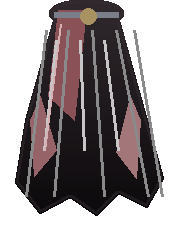
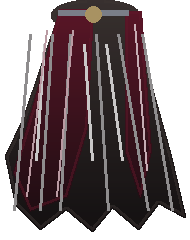
Repaint Lightning to the palette of the painted concept
The concept (juan-ruiz-03.jpg) says a charcoal robe, a steel-blue plate and an
oxblood cape lining, and the sprite had drifted to a black robe and a bright
red cloak that were invented rather than sampled. The colours here are read off
the painting, so the sprites stand in the same light as the reference.

The other half of it was silhouette: shoulder caps 62px across made him twice
as wide at the shoulder as the concept and squashed the wide brim into nothing,
because the hat is cut from the render at a fixed size. The body is slimmed to
the joints (torso 114, pelvis 86, thinner arms and legs) so the brim reads as
the oversized hat it is meant to be.

diff --git a/tools/lightning_art.py b/tools/lightning_art.py
@@ -33,38 +33,41 @@ ROOT = os.path.dirname(os.path.dirname(os.path.abspath(__file__)))
 PARTS = os.path.join(ROOT, "art_src", "chars", "lightning", "parts")
 
 # --------------------------------------------------------------------- palette
-ROBE = (30, 30, 36)
-ROBE_LIT = (58, 58, 68)
-ROBE_DK = (12, 12, 16)
+# Colours are lifted from the painted concept (juan-ruiz-03.jpg) rather than
+# guessed, so the sprites sit in the same light as the picture: a charcoal
+# robe, steel-blue plate, and a cloak whose lining is oxblood, not red.
+ROBE = (26, 26, 33)
+ROBE_LIT = (44, 44, 55)
+ROBE_DK = (13, 13, 18)
 ROBE_TRIM = (86, 84, 92)
 
-SKIN = (206, 158, 124)
-SKIN_LIT = (234, 192, 158)
-SKIN_DK = (146, 104, 78)
-SKIN_DEEP = (96, 68, 52)
+SKIN = (216, 172, 142)
+SKIN_LIT = (238, 198, 170)
+SKIN_DK = (156, 112, 84)
+SKIN_DEEP = (98, 68, 52)
 
-BEAD = (188, 192, 202)
-BEAD_LIT = (246, 248, 252)
-BEAD_DK = (104, 108, 120)
+BEAD = (98, 114, 134)
+BEAD_LIT = (156, 174, 196)
+BEAD_DK = (52, 66, 84)
 
-CAPE = (26, 22, 26)
-CAPE_LIT = (52, 44, 48)
-CAPE_DK = (8, 6, 8)
-CAPE_LINING = (98, 22, 28)
-CAPE_LINING_LIT = (140, 36, 42)
+CAPE = (34, 30, 30)
+CAPE_LIT = (60, 52, 50)
+CAPE_DK = (16, 13, 14)
+CAPE_LINING = (68, 14, 30)
+CAPE_LINING_LIT = (96, 24, 42)
 
 STRAW = (206, 184, 140)
 STRAW_LIT = (238, 220, 180)
 STRAW_DK = (146, 120, 80)
 HATBAND = (58, 42, 28)
 
-TROUSER = (28, 28, 34)
-TROUSER_LIT = (50, 50, 60)
-TROUSER_DK = (10, 10, 14)
+TROUSER = (38, 38, 48)
+TROUSER_LIT = (58, 58, 70)
+TROUSER_DK = (22, 22, 30)
 
-BOOT = (26, 26, 32)
-BOOT_LIT = (62, 64, 74)
-BOOT_DK = (10, 10, 14)
+BOOT = (34, 34, 42)
+BOOT_LIT = (60, 62, 74)
+BOOT_DK = (16, 16, 22)
 
 BOLT = (128, 200, 255)
 BOLT_CORE = (242, 250, 255)
@@ -114,10 +117,13 @@ def torso():
     W, H = 132, 130
     mask = Image.new("L", (W, H), 0)
     d = ImageDraw.Draw(mask)
-    d.polygon([(14, 22), (118, 22), (108, 64), (99, 106), (97, 130),
-               (35, 130), (33, 106), (24, 64)], fill=255)
-    d.ellipse([2, 2, 64, 60], fill=255)          # shoulder caps
-    d.ellipse([68, 2, 130, 60], fill=255)
+    d.polygon([(24, 20), (108, 20), (102, 64), (96, 106), (94, 130),
+               (38, 130), (36, 106), (30, 64)], fill=255)
+    # Shoulder caps sized to the joints at +-48, not to the canvas: at 62px
+    # across they were half the figure's width and he read as a barrel next to
+    # the concept's narrow shoulders.
+    d.ellipse([16, 4, 60, 58], fill=255)
+    d.ellipse([72, 4, 116, 58], fill=255)
     img = char_rig._shade(mask, ROBE, ROBE_LIT, ROBE_DK)
     d = ImageDraw.Draw(img)
 
@@ -129,7 +135,7 @@ def torso():
     pd.polygon([(27, 24), (105, 24), (101, 76), (31, 76)], fill=255)
     for i in range(7):
         x = 30 + i * 10.4
-        pd.polygon([(x, 74), (x + 10.4, 74), (x + 5.2, 92)], fill=255)
+        pd.polygon([(x, 74), (x + 10.4, 74), (x + 5.2, 96)], fill=255)
     img.alpha_composite(char_rig._shade(pm, BEAD, BEAD_LIT, BEAD_DK))
 
     beads = _blank((W, H))
@@ -165,9 +171,9 @@ def torso():
 
     # --- grey waist chevron and belt --------------------------------------
     d.polygon([(44, 90), (66, 103), (88, 90), (88, 99), (66, 113), (44, 99)],
-              fill=(126, 132, 142, 255))
+              fill=(78, 82, 94, 255))
     d.polygon([(44, 90), (66, 103), (66, 108), (44, 95)],
-              fill=(158, 164, 174, 255))
+              fill=(104, 110, 124, 255))
     d.rectangle([33, 108, 99, 120], fill=(16, 14, 16, 255))
     d.rectangle([58, 106, 74, 122], fill=(178, 156, 106, 255))
     d.rectangle([62, 110, 70, 118], fill=(96, 78, 46, 255))
@@ -180,7 +186,8 @@ def torso():
                fill=ROBE_DK + (150,), width=2)
     for x in (36, 96):
         d.line([(x, 34), (x - 1, 100)], fill=ROBE_LIT + (90,), width=2)
-    return img
+    # trim the over-wide canvas so the part is as wide as the shoulders it has
+    return img.resize((114, H), Image.LANCZOS)
 
 
 # ---------------------------------------------------------------------- pelvis
@@ -199,7 +206,7 @@ def pelvis():
         d.line([(x, 22), (x + (3 if x < 50 else -3), 70)],
                fill=ROBE_DK + (130,), width=2)
     d.line([(12, 60), (24, 70)], fill=ROBE_LIT + (80,), width=2)
-    return img
+    return img.resize((86, H), Image.LANCZOS)
 
 
 # ------------------------------------------------------------------------ head
@@ -214,43 +221,46 @@ def head():
     since those have to sit on the character's palette. The brim comes down to
     the eye line, so at fighting distance he is a hat with two lit slits.
     """
-    W, H = 150, 94
+    W, H = 158, 96
+    cx = W // 2
     img = _blank((W, H))
 
     # --- neck, so the head meets the shoulders instead of hovering ----------
     neck = Image.new("L", (W, H), 0)
-    ImageDraw.Draw(neck).rectangle([62, 70, 88, 94], fill=255)
+    ImageDraw.Draw(neck).rectangle([cx - 13, 72, cx + 13, H], fill=255)
     img.alpha_composite(char_rig._shade(neck, SKIN_DK, SKIN, SKIN_DEEP))
 
     # --- skull, nearly all of it lost in the brim's shadow ------------------
     face = Image.new("L", (W, H), 0)
     fd = ImageDraw.Draw(face)
-    fd.ellipse([44, 30, 106, 92], fill=255)
-    fd.rectangle([56, 58, 94, 92], fill=255)
+    fd.ellipse([cx - 31, 32, cx + 31, 94], fill=255)
+    fd.rectangle([cx - 19, 60, cx + 19, 94], fill=255)
     img.alpha_composite(char_rig._shade(face, (150, 110, 86),
-                                       (196, 150, 118), SKIN_DEEP))
+                                      (196, 150, 118), SKIN_DEEP))
     d = ImageDraw.Draw(img)
-    d.ellipse([34, 52, 116, 92], fill=(10, 10, 15, 212))        # brim shadow
-    d.ellipse([40, 68, 110, 90], fill=(6, 6, 9, 92))            # deepest, at the jaw
-    d.line([(63, 86), (87, 85)], fill=(96, 50, 44, 175), width=2)    # mouth
+    d.ellipse([cx - 41, 54, cx + 41, 94], fill=(10, 10, 15, 212))   # brim shadow
+    d.ellipse([cx - 35, 70, cx + 35, 92], fill=(6, 6, 9, 92))       # deepest, jaw
+    d.line([(cx - 12, 88), (cx + 12, 87)], fill=(96, 50, 44, 175), width=2)
 
     # --- the hat, straight out of the render -------------------------------
-    hat_img = hat_cut.hat(134, 68)
-    img.alpha_composite(hat_img, ((W - hat_img.width) // 2,
-                                  70 - hat_img.height))
+    # The concept's brim is a little under half the figure's width; the body is
+    # slimmed to suit it rather than the hat shrunk to fit the body.
+    hat_img = hat_cut.hat(140, 74)
+    img.alpha_composite(hat_img, (cx - hat_img.width // 2,
+                                  72 - hat_img.height))
 
     # --- the only lit thing under it ---------------------------------------
-    for cx in (62, 88):
+    for ex in (cx - 17, cx + 17):
         glow = _blank((W, H))
-        ImageDraw.Draw(glow).ellipse([cx - 11, 69, cx + 11, 81],
+        ImageDraw.Draw(glow).ellipse([ex - 11, 71, ex + 11, 83],
                                      fill=BOLT + (105,))
         img.alpha_composite(glow.filter(ImageFilter.GaussianBlur(3)))
     d = ImageDraw.Draw(img)
-    for cx, sgn in ((62, -1), (88, 1)):
-        d.line([(cx - 7, 75), (cx + 7, 73)], fill=(12, 22, 46, 255), width=4)
-        d.line([(cx - 6, 74), (cx + 6, 73)], fill=BOLT + (255,), width=2)
-        d.point([(cx - 1, 74)], fill=BOLT_CORE + (255,))
-        d.point([(cx + sgn * 5, 73)], fill=(255, 255, 255, 255))
+    for ex, sgn in ((cx - 17, -1), (cx + 17, 1)):
+        d.line([(ex - 7, 77), (ex + 7, 75)], fill=(12, 22, 46, 255), width=4)
+        d.line([(ex - 6, 76), (ex + 6, 75)], fill=BOLT + (255,), width=2)
+        d.point([(ex - 1, 76)], fill=BOLT_CORE + (255,))
+        d.point([(ex + sgn * 5, 75)], fill=(255, 255, 255, 255))
     return img
 
 
@@ -269,23 +279,23 @@ def arm(near=True):
     # upper sleeve, hanging from the shoulder
     mask = Image.new("L", (W, H), 0)
     d = ImageDraw.Draw(mask)
-    d.polygon([(37, 14), (73, 14), (78, 54), (33, 58)], fill=255)
-    d.ellipse([sh[0] - 20, sh[1] - 10, sh[0] + 20, sh[1] + 18], fill=255)
-    d.ellipse([elbow[0] - 22, elbow[1] - 16, elbow[0] + 22, elbow[1] + 14], fill=255)
+    d.polygon([(41, 14), (69, 14), (73, 54), (36, 58)], fill=255)
+    d.ellipse([sh[0] - 16, sh[1] - 9, sh[0] + 16, sh[1] + 16], fill=255)
+    d.ellipse([elbow[0] - 18, elbow[1] - 14, elbow[0] + 18, elbow[1] + 12], fill=255)
     img.alpha_composite(char_rig._shade(mask, base, lit, dark))
 
     # forearm sleeve, angled out towards the enemy
     fmask = Image.new("L", (W, H), 0)
     fd = ImageDraw.Draw(fmask)
-    fd.line([elbow, wrist], fill=255, width=24)
-    fd.ellipse([elbow[0] - 13, elbow[1] - 13, elbow[0] + 13, elbow[1] + 13], fill=255)
-    fd.ellipse([wrist[0] - 13, wrist[1] - 13, wrist[0] + 13, wrist[1] + 13], fill=255)
+    fd.line([elbow, wrist], fill=255, width=20)
+    fd.ellipse([elbow[0] - 11, elbow[1] - 11, elbow[0] + 11, elbow[1] + 11], fill=255)
+    fd.ellipse([wrist[0] - 11, wrist[1] - 11, wrist[0] + 11, wrist[1] + 11], fill=255)
     img.alpha_composite(char_rig._shade(fmask, base, lit, dark))
 
     d = ImageDraw.Draw(img)
     # flared cuff at the wrist
-    d.line([(92, 80), (104, 88)], fill=(132, 134, 144, 255), width=30)
-    d.line([(95, 82), (102, 87)], fill=dark + (210,), width=22)
+    d.line([(92, 80), (104, 88)], fill=(132, 134, 144, 255), width=26)
+    d.line([(95, 82), (102, 87)], fill=dark + (210,), width=18)
 
     # hand: wrist, palm, four fingers
     hx, hy = 116, 96
@@ -311,18 +321,18 @@ def arm(near=True):
 # ------------------------------------------------------------------------ legs
 def thigh():
     W, H = 54, 86
-    return _limb((W, H), [(7, 2), (47, 2), (49, 46), (44, 84), (10, 84), (5, 46)],
+    return _limb((W, H), [(10, 2), (44, 2), (46, 46), (41, 84), (13, 84), (8, 46)],
                  TROUSER, TROUSER_LIT, TROUSER_DK)
 
 
 def shin():
     """Baggy trouser above, tall black boot below."""
     W, H = 46, 86
-    leg = _limb((W, H), [(6, 2), (40, 2), (42, 38), (38, 84), (8, 84), (4, 38)],
+    leg = _limb((W, H), [(9, 2), (37, 2), (39, 38), (35, 84), (11, 84), (7, 38)],
                 TROUSER, TROUSER_LIT, TROUSER_DK)
     bootmask = Image.new("L", (W, H), 0)
     bd = ImageDraw.Draw(bootmask)
-    bd.polygon([(4, 34), (42, 34), (38, 84), (8, 84)], fill=255)
+    bd.polygon([(7, 34), (39, 34), (35, 84), (11, 84)], fill=255)
     boot = char_rig._shade(bootmask, BOOT, BOOT_LIT, BOOT_DK)
     img = Image.alpha_composite(leg, boot)
     d = ImageDraw.Draw(img)
@@ -347,31 +357,47 @@ def foot():
 
 # ------------------------------------------------------------------------ cape
 def cape():
-    """Crimson cloak from the shoulders to below the knee."""
-    W, H = 172, 226
+    """Wool cloak to the floor, hanging open with its lining turned out.
+
+    The concept wears it that way: the left front swung clear of the body so a
+    long wedge of oxblood lining faces the camera, the wool gathering in deep
+    folds down the right, and the hem ragged along the ground. It reads as one
+    mass at fighting size, which is what a cape should do.
+    """
+    W, H = 190, 240
     mask = Image.new("L", (W, H), 0)
     d = ImageDraw.Draw(mask)
-    d.polygon([(58, 6), (114, 6), (162, 178), (146, 206), (118, 192),
-               (96, 214), (70, 196), (40, 212), (16, 182), (26, 120)],
-              fill=255)
-    d.ellipse([50, 0, 122, 26], fill=255)
+    d.polygon([(62, 6), (128, 6), (170, 156), (184, 216), (158, 202),
+               (138, 228), (112, 206), (92, 230), (66, 208), (40, 228),
+               (16, 204), (6, 156), (24, 118)], fill=255)
+    d.ellipse([52, 0, 138, 30], fill=255)
     img = char_rig._shade(mask, CAPE, CAPE_LIT, CAPE_DK)
     d = ImageDraw.Draw(img)
-    # oxblood lining showing down the inside edge, then deep folds in the wool
-    d.polygon([(58, 10), (86, 10), (74, 120), (48, 96)],
-              fill=CAPE_LINING + (190,))
-    d.polygon([(30, 120), (40, 96), (56, 150), (34, 176)],
-              fill=CAPE_LINING + (170,))
-    d.polygon([(140, 120), (130, 96), (116, 152), (136, 178)],
-              fill=CAPE_LINING + (150,))
-    for x0, x1 in ((46, 26), (68, 54), (92, 104), (116, 148), (134, 162)):
-        d.line([(x0, 30), (x1, 196)], fill=CAPE_DK + (120,), width=3)
-    for x0, x1 in ((56, 44), (80, 84), (104, 118)):
-        d.line([(x0, 40), (x1, 150)], fill=CAPE_LIT + (70,), width=3)
-    d.line([(60, 24), (44, 150)], fill=CAPE_LINING_LIT + (90,), width=2)
+
+    # the lining, swung round to the front on the left, and a sliver of it
+    # showing on the right where that edge turns away
+    lining = Image.new("L", (W, H), 0)
+    ld = ImageDraw.Draw(lining)
+    ld.polygon([(60, 10), (92, 10), (86, 128), (66, 196), (30, 210),
+                (14, 172), (34, 104)], fill=255)
+    ld.polygon([(126, 12), (140, 12), (150, 150), (140, 196), (126, 152)],
+               fill=255)
+    img.alpha_composite(char_rig._shade(lining, CAPE_LINING,
+                                        CAPE_LINING_LIT, CAPE_DK))
+
+    # folds: shadow creases down both sides, lit ridges on the wool
+    for x0, x1 in ((30, 14), (52, 40), (70, 60), (96, 108), (118, 148),
+                   (142, 172)):
+        d.line([(x0, 34), (x1, 210)], fill=CAPE_DK + (120,), width=3)
+    for x0, x1 in ((44, 36), (84, 92), (106, 122)):
+        d.line([(x0, 44), (x1, 160)], fill=CAPE_LIT + (70,), width=3)
+    for x0, x1 in ((46, 26), (72, 56)):
+        d.line([(x0, 30), (x1, 196)], fill=CAPE_LINING_LIT + (110,), width=2)
+    d.line([(134, 24), (146, 170)], fill=CAPE_LINING_LIT + (90,), width=2)
+
     # clasp across the shoulders
-    d.line([(54, 14), (118, 14)], fill=(122, 126, 136, 255), width=6)
-    d.ellipse([80, 8, 96, 24], fill=(168, 146, 98, 255))
+    d.line([(58, 12), (128, 12)], fill=(122, 126, 136, 255), width=6)
+    d.ellipse([85, 6, 101, 22], fill=(168, 146, 98, 255))
     return img
 
 
@@ -383,7 +409,7 @@ RIG_JSON = {
         "arm_f": [56, 14],
         "foot_n": [14, 32],
         "foot_f": [14, 32],
-        "cape": [86, 12],
+        "cape": [95, 12],
     },
 }
 
